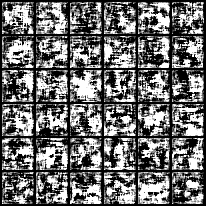
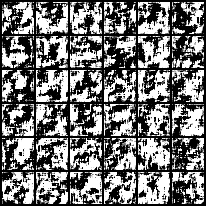
ELR 2

diff --git a/custom.py b/custom.py
@@ -22,8 +22,8 @@ class ConvBlock(nn.Module):
             nl = 'relu'
             
         self.activation = nn.Sequential(
-            nn.BatchNorm2d(o_c),
-            self.relu
+            self.relu,
+            nn.BatchNorm2d(o_c)
         )
 
         #weight initialization
@@ -31,12 +31,11 @@ class ConvBlock(nn.Module):
         nn.init.kaiming_normal_(self.layer.weight, nonlinearity=nl)
         
         
-        self.Sequential = nn.Sequential(
-            self.layer,
-            self.activation
-        )
+        # self.Sequential = nn.Sequential(
+        #     self.layer,
+        #     self.activation
+        # )
 
-        conv_w = self.layer.weight.data.clone()
         self.scale = (torch.mean(self.layer.weight.data ** 2)) ** 0.5
         self.layer.weight.data.copy_(self.layer.weight.data/self.scale)
 

diff --git a/trainer.py b/trainer.py
@@ -2,6 +2,9 @@ import numpy as np
 from collections import OrderedDict
 import math
 import os
+try:    from IPython.display import clear_output
+except Exception:   ipython = False
+else:   ipython = True
 
 import torch
 import torch.nn as nn
@@ -99,7 +102,7 @@ class PGAN:
                 # print(i)
 
             # pgan_demo.refresh(epoch)
-
+            if ipython: clear_output()
             print(f"""Epoch {epoch}:
             Discriminator loss: {D_loss}; Real score: {real_score.mean().item()}; Fake score{fake_score.mean().item()};
             Generator loss: {G_loss}""")
